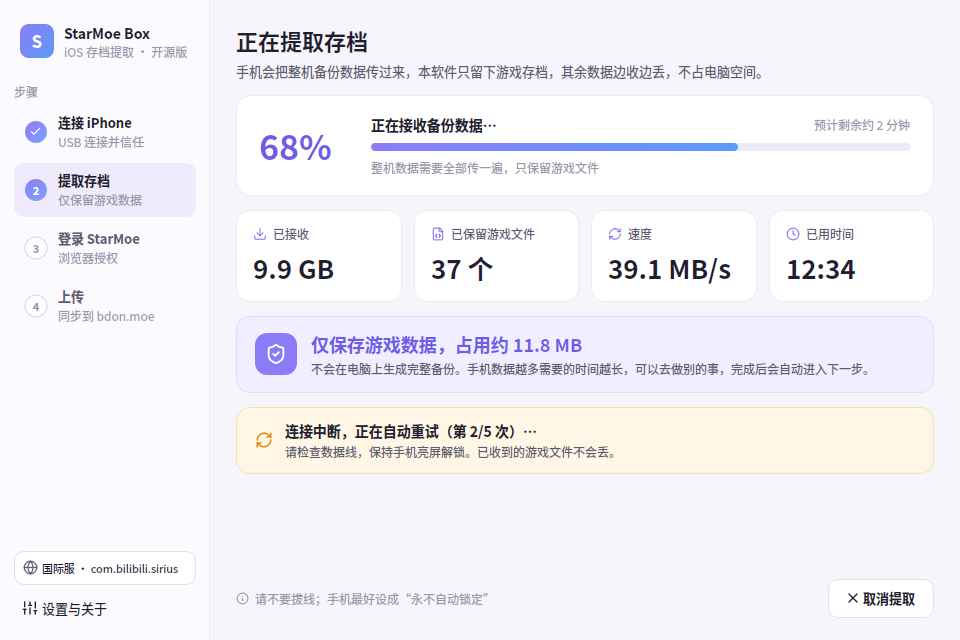
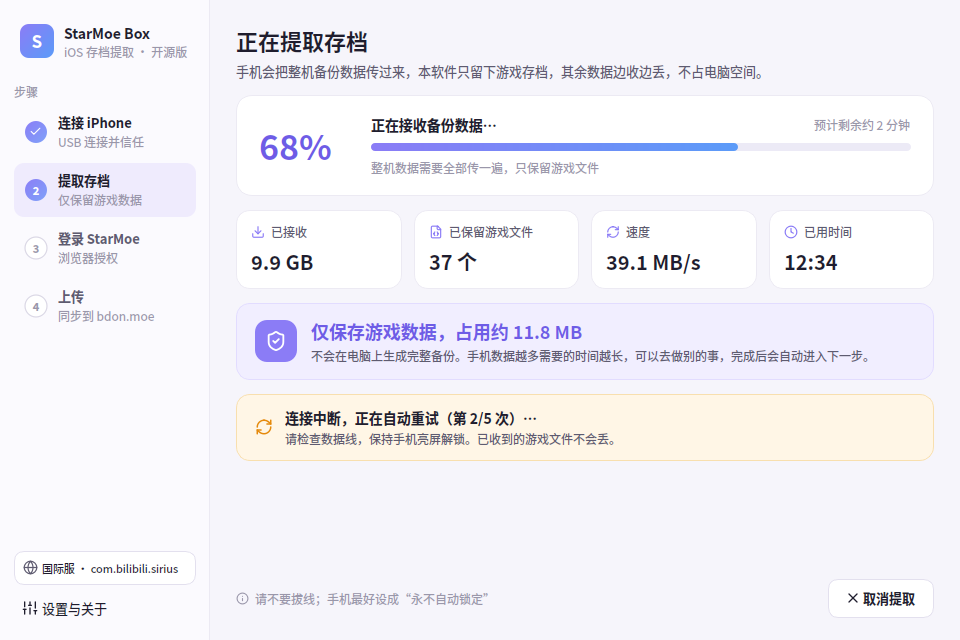
Keep extraction running in the background and fit the speed card
App Nap was throttling the backup once the window was covered, and the GUI thread was walking the backup folder on each refresh. Disable App Nap in Info.plist, hold an NSProcessInfo user-initiated activity (and SetThreadExecutionState on Windows) for the whole extract, and refresh the page at most 10 times a second from the worker thread.

The speed tile clipped 84.5 MB/s. Shrink the stat font to fit and give the four cards equal width.

diff --git a/starmoe_ios/power.py b/starmoe_ios/power.py
@@ -1,0 +1,102 @@
+"""提取期间禁止系统把进程挂起或让机器睡眠。失败时只记日志，不中断备份。"""
+import logging, sys
+
+log = logging.getLogger("starmoe.power")
+
+# NSActivityOptions（NSProcessInfo.h）
+NSActivityIdleSystemSleepDisabled = 1 << 20
+NSActivityUserInitiated = 0x00FFFFFF | NSActivityIdleSystemSleepDisabled
+
+# Windows SetThreadExecutionState
+_ES_CONTINUOUS = 0x80000000
+_ES_SYSTEM_REQUIRED = 0x00000001
+
+
+class StayAwake:
+    """with StayAwake(reason): 覆盖整个提取过程，结束时一定配对释放。"""
+
+    def __init__(self, reason="StarMoe Box is extracting an iPhone backup"):
+        self.reason = reason
+        self._token = None
+
+    def __enter__(self):
+        self._token = begin(self.reason)
+        return self
+
+    def __exit__(self, *exc):
+        end(self._token)
+        self._token = None
+        return False
+
+
+def begin(reason):
+    try:
+        if sys.platform == "darwin":
+            return _darwin_begin(reason)
+        if sys.platform == "win32":
+            return _win_begin()
+    except Exception as e:  # noqa: BLE001
+        log.warning("无法禁止系统休眠：%s", e)
+    return None
+
+
+def end(token):
+    try:
+        if sys.platform == "darwin":
+            _darwin_end(token)
+        elif sys.platform == "win32":
+            _win_end()
+    except Exception as e:  # noqa: BLE001
+        log.warning("无法恢复系统休眠：%s", e)
+
+
+def _darwin_begin(reason):
+    import ctypes
+    import ctypes.util
+    ctypes.cdll.LoadLibrary("/System/Library/Frameworks/Foundation.framework/Foundation")
+    objc = ctypes.cdll.LoadLibrary(ctypes.util.find_library("objc"))
+    objc.objc_getClass.restype = ctypes.c_void_p
+    objc.objc_getClass.argtypes = [ctypes.c_char_p]
+    objc.sel_registerName.restype = ctypes.c_void_p
+    objc.sel_registerName.argtypes = [ctypes.c_char_p]
+
+    def sel(name):
+        return objc.sel_registerName(name.encode())
+
+    send = ctypes.CFUNCTYPE(ctypes.c_void_p, ctypes.c_void_p, ctypes.c_void_p)(objc.objc_msgSend)
+    info = send(objc.objc_getClass(b"NSProcessInfo"), sel("processInfo"))
+    reason_s = ctypes.CFUNCTYPE(ctypes.c_void_p, ctypes.c_void_p, ctypes.c_void_p, ctypes.c_char_p)(
+        objc.objc_msgSend)(objc.objc_getClass(b"NSString"), sel("stringWithUTF8String:"), reason.encode())
+    begin_act = ctypes.CFUNCTYPE(ctypes.c_void_p, ctypes.c_void_p, ctypes.c_void_p, ctypes.c_uint64, ctypes.c_void_p)(
+        objc.objc_msgSend)
+    token = begin_act(info, sel("beginActivityWithOptions:reason:"),
+                      ctypes.c_uint64(NSActivityUserInitiated | NSActivityIdleSystemSleepDisabled), reason_s)
+    if token:
+        token = send(token, sel("retain"))
+    return (info, token)
+
+
+def _darwin_end(token):
+    if not token:
+        return
+    import ctypes
+    import ctypes.util
+    objc = ctypes.cdll.LoadLibrary(ctypes.util.find_library("objc"))
+    objc.sel_registerName.restype = ctypes.c_void_p
+    objc.sel_registerName.argtypes = [ctypes.c_char_p]
+    info, activity = token
+    end_act = ctypes.CFUNCTYPE(None, ctypes.c_void_p, ctypes.c_void_p, ctypes.c_void_p)(objc.objc_msgSend)
+    end_act(info, objc.sel_registerName(b"endActivity:"), activity)
+    release = ctypes.CFUNCTYPE(None, ctypes.c_void_p, ctypes.c_void_p)(objc.objc_msgSend)
+    release(activity, objc.sel_registerName(b"release"))
+
+
+def _win_begin():
+    import ctypes
+    ctypes.windll.kernel32.SetThreadExecutionState(_ES_CONTINUOUS | _ES_SYSTEM_REQUIRED)
+    return True
+
+
+def _win_end():
+    import ctypes
+    ctypes.windll.kernel32.SetThreadExecutionState(_ES_CONTINUOUS)

diff --git a/starmoe_ios/gui/workers.py b/starmoe_ios/gui/workers.py
@@ -3,6 +3,7 @@ import asyncio, logging, os, shutil, time, traceback
 from PySide6.QtCore import QThread, Signal
 from .. import core, device
 from ..errors import StarMoeError, ERR_DISCONNECTED, ERR_NO_DEVICE, ERR_NOT_TRUSTED, ERR_NETWORK
+from ..power import StayAwake
 
 log = logging.getLogger("starmoe.gui")
 # 快照阶段没有字节也不当断线；超过这个时间仍是 0 字节，才按断线重试
@@ -44,6 +45,7 @@ class BackupWorker(QThread):
     信号：status(str) 文字状态；retrying(n, max)；scanning()；found(list)；failed(code, msg, detail)；cancelled()
     """
     status = Signal(str)
+    tick = Signal()          # 最多约 10 次/秒，只通知界面去读 stats
     retrying = Signal(int, int)
     scanning = Signal()
     found = Signal(object)
@@ -73,7 +75,8 @@ class BackupWorker(QThread):
     def _once(self):
         async def main():
             self._task = asyncio.current_task()
-            return await self.runner(self.bundle, self.out_dir, self.stats, on_log=lambda m: log.info(m))
+            return await self.runner(self.bundle, self.out_dir, self.stats, on_log=lambda m: log.info(m),
+                                     on_tick=self.tick.emit)
         self._loop = asyncio.new_event_loop()
         try:
             return self._loop.run_until_complete(main())
@@ -92,11 +95,18 @@ class BackupWorker(QThread):
             return None
 
     def _wait_device(self):
+        def nap(seconds):
+            end_at = time.time() + seconds
+            while time.time() < end_at:
+                if self._cancel:
+                    return
+                self.tick.emit()
+                time.sleep(0.1)
+
         t0 = time.time()
-        for _ in range(20):   # 先等 2 秒，让 usbmuxd 注意到断开
-            if self._cancel:
-                return False
-            time.sleep(0.1)
+        nap(2)   # 先等 2 秒，让 usbmuxd 注意到断开
+        if self._cancel:
+            return False
         while not self._cancel and time.time() - t0 < self.wait_device_s:
             try:
                 if asyncio.run(device.list_serials()):
@@ -105,10 +115,14 @@ class BackupWorker(QThread):
                 pass
             except Exception:
                 pass
-            time.sleep(3)
+            nap(3)
         return False
 
     def run(self):
+        with StayAwake("StarMoe Box is extracting an iPhone backup"):
+            self._run()
+
+    def _run(self):
         # 只在第一次尝试前清理旧数据；重试时保留已收到的游戏文件
         shutil.rmtree(self.out_dir, ignore_errors=True)
         os.makedirs(self.out_dir, exist_ok=True)

diff --git a/starmoe_ios/device.py b/starmoe_ios/device.py
@@ -142,13 +142,25 @@ class BackupStats:
         self.kept = 0          # 保留（写盘）的游戏文件数
         self.dropped = 0
         self.percent = 0.0     # 手机报告的进度
+        self.kept_bytes = 0
         self.started = time.time()
         self.phase = "connecting"   # connecting / preparing / transferring / finishing
         self.will_encrypt = None
         self.udid_dir = None
 
 
-async def run_filtered_backup(bundle, out_dir, stats=None, fake_free=8 << 40, full=True, on_log=None):
+def _folder_bytes(path):
+    total = 0
+    for root, _, files in os.walk(path):
+        for name in files:
+            try:
+                total += os.path.getsize(os.path.join(root, name))
+            except OSError:
+                pass
+    return total
+
+
+async def run_filtered_backup(bundle, out_dir, stats=None, fake_free=8 << 40, full=True, on_log=None, on_tick=None):
     """执行一次过滤备份。返回 (udid_dir, will_encrypt)。异常：StarMoeError 或原始连接异常（见 is_disconnect）。"""
     from pymobiledevice3.services.mobilebackup2 import Mobilebackup2Service
     from pymobiledevice3.services import device_link as dlmod
@@ -204,8 +216,21 @@ async def run_filtered_backup(bundle, out_dir, stats=None, fake_free=8 << 40, fu
         except (TypeError, ValueError):
             pass
 
+    async def pulse():
+        """界面刷新最多 10 次/秒。目录大小在这条备份线程里算，不占用 GUI。"""
+        last_walk = 0.0
+        while True:
+            await asyncio.sleep(0.1)
+            now = time.monotonic()
+            if stats.udid_dir and now - last_walk >= 2.0:
+                last_walk = now
+                stats.kept_bytes = _folder_bytes(stats.udid_dir)
+            if on_tick:
+                on_tick()
+
     dlmod.DeviceLink.get_free_disk_space = fake_free_space
     dlmod.DeviceLink._recvall = counting_recv
+    pulse_task = asyncio.ensure_future(pulse())
     try:
         async with Mobilebackup2Service(ld) as mb:
             stats.will_encrypt = enc = await mb.get_will_encrypt()
@@ -222,6 +247,11 @@ async def run_filtered_backup(bundle, out_dir, stats=None, fake_free=8 << 40, fu
                 else:
                     raise StarMoeError(ERR_BACKUP_DENIED, "iPhone 拒绝了备份请求。", repr(e))
     finally:
+        pulse_task.cancel()
+        try:
+            await pulse_task
+        except asyncio.CancelledError:
+            pass
         dlmod.DeviceLink.get_free_disk_space = orig_free
         dlmod.DeviceLink._recvall = orig_recv
         try:

diff --git a/starmoe_ios/gui/widgets.py b/starmoe_ios/gui/widgets.py
@@ -316,14 +316,45 @@ class Stepper(QWidget):
 
 
 class StatTile(Card):
+    """四张等宽统计卡。数值从 20px 往下缩，仍放不下才省略，避免「84.5 MB/s」被裁成「84.5 MB/」。"""
+
     def __init__(self, icon_name, title, value="—"):
-        super().__init__("tile", (16, 14, 16, 14), 6)
+        super().__init__("tile", (14, 12, 14, 12), 6)
+        self.setMinimumWidth(0)
+        self.setSizePolicy(QSizePolicy.Ignored, QSizePolicy.Preferred)
         self.lay.addWidget(hbox(icon_label(icon_name, T.PURPLE, 14), label(title, "small"), None, spacing=6))
-        self.v = label(value, "big")
+        self.v = label(value, "stat")
+        self.v.setMinimumWidth(0)
+        self.v.setSizePolicy(QSizePolicy.Ignored, QSizePolicy.Preferred)
         self.lay.addWidget(self.v)
+        self._full = str(value)
 
     def set(self, v):
-        self.v.setText(str(v))
+        self._full = str(v)
+        self._fit()
+
+    def resizeEvent(self, event):
+        super().resizeEvent(event)
+        self._fit()
+
+    def _fit(self):
+        from PySide6.QtGui import QFontMetrics
+        text = self._full
+        avail = self.v.width()
+        if avail < 8:
+            avail = max(8, self.width() - 28)
+        size = 20
+        shown = text
+        while size >= 14:
+            self.v.setStyleSheet(f"font-size: {size}px; font-weight: 700; color: {T.TEXT};")
+            width = QFontMetrics(self.v.font()).horizontalAdvance(text)
+            if width <= avail:
+                self.v.setText(text)
+                return
+            size -= 1
+        self.v.setStyleSheet(f"font-size: 14px; font-weight: 700; color: {T.TEXT};")
+        shown = QFontMetrics(self.v.font()).elidedText(text, Qt.ElideRight, avail)
+        self.v.setText(shown)
 
 
 class Option(Card):

diff --git a/starmoe_ios/gui/app.py b/starmoe_ios/gui/app.py
@@ -71,8 +71,6 @@ class MainWindow(QMainWindow):
 
         self.poll = QTimer(self)
         self.poll.timeout.connect(self.poll_device)
-        self.ui_timer = QTimer(self)
-        self.ui_timer.timeout.connect(self.refresh_extract)
 
         self.set_server(self.server)
         self.load_saved_keys()
@@ -393,23 +391,19 @@ class MainWindow(QMainWindow):
         w.found.connect(lambda s: self.on_found(s, "USB 过滤备份", str(w.stats.udid_dir)))
         w.failed.connect(self.on_backup_failed)
         w.cancelled.connect(lambda: self.go(self.D))
-        w.finished.connect(self.ui_timer.stop)
+        w.tick.connect(self.refresh_extract)
+        w.finished.connect(self.refresh_extract)
         self.backup_password = pw
         self.p[self.X].reset()
         self.go(self.X)
         w.start()
-        self.ui_timer.start(500)
-        self._kept_bytes_at = 0
 
     def refresh_extract(self):
         w = self.worker
         if not w:
             return
         s = w.stats
-        if time.time() - self._kept_bytes_at > 2 and s.udid_dir and os.path.isdir(s.udid_dir):
-            self._kept_bytes_at = time.time()
-            w.kept_bytes = sum(os.path.getsize(os.path.join(r, f)) for r, _, fs in os.walk(s.udid_dir) for f in fs)
-        self.p[self.X].update_stats(s.percent, s.received, s.kept, w.kept_bytes, time.time() - s.started, s.phase)
+        self.p[self.X].update_stats(s.percent, s.received, s.kept, s.kept_bytes, time.time() - s.started, s.phase)
 
     def cancel_backup(self):
         if self.busy() and QMessageBox.question(

diff --git a/tests/test_gui.py b/tests/test_gui.py
@@ -347,4 +347,37 @@ assert picked == ["intl"] and seg.value() == "intl"
 seg.set_value("intl")
 assert picked == ["intl"]
 print("SERVER SEGMENT OK")
+
+# 14) 速度卡片在默认内容宽度里放下「84.5 MB/s」，四张卡等宽
+from PySide6.QtWidgets import QWidget, QHBoxLayout
+from starmoe_ios.gui.widgets import StatTile
+box = QWidget()
+box.resize(698, 100)   # 960 窗口减去 210 侧栏和页边距
+row = QHBoxLayout(box)
+row.setContentsMargins(0, 0, 0, 0)
+row.setSpacing(12)
+cards = [StatTile("download", "已接收", "17.7 GB"), StatTile("json", "已保留游戏文件", "12 个"),
+         StatTile("refresh", "速度", "84.5 MB/s"), StatTile("clock", "已用时间", "10:48")]
+for c in cards:
+    row.addWidget(c, 1)
+box.show()
+spin()
+assert "MB/s" in cards[2].v.text(), cards[2].v.text()
+widths = [c.width() for c in cards]
+assert max(widths) - min(widths) <= 4, widths
+print("STAT TILE OK", cards[2].v.text(), widths)
+
+# 15) 防休眠调用成对出现
+import starmoe_ios.power as power
+marks = []
+real_begin, real_end = power.begin, power.end
+power.begin = lambda reason: marks.append(reason) or "tok"
+power.end = lambda token: marks.append(token)
+try:
+    with power.StayAwake("extracting"):
+        pass
+finally:
+    power.begin, power.end = real_begin, real_end
+assert marks == ["extracting", "tok"], marks
+print("STAY AWAKE OK")
 print("GUI TESTS OK")

diff --git a/starmoe_ios/gui/theme.py b/starmoe_ios/gui/theme.py
@@ -54,6 +54,7 @@ QLabel[role="muted"] {{ color: {MUTED}; font-size: 12px; }}
 QLabel[role="small"] {{ color: {TEXT2}; font-size: 12px; }}
 QLabel[role="cardtitle"] {{ font-size: 14px; font-weight: 600; }}
 QLabel[role="big"] {{ font-size: 26px; font-weight: 700; }}
+QLabel[role="stat"] {{ font-size: 20px; font-weight: 700; }}
 QLabel[role="huge"] {{ font-size: 34px; font-weight: 700; color: {PURPLE_DARK}; }}
 QLabel[role="value"] {{ font-size: 14px; font-weight: 600; }}
 QLabel[chip="green"] {{ background: {GREEN_BG}; color: {GREEN}; border-radius: 10px; padding: 2px 9px; font-size: 12px; }}

diff --git a/starmoe_ios/gui/pages.py b/starmoe_ios/gui/pages.py
@@ -462,7 +462,7 @@ class ExtractPage(Page):
         self.t_speed = StatTile("refresh", "速度", "—")
         self.t_time = StatTile("clock", "已用时间", "00:00")
         for t in (self.t_recv, self.t_kept, self.t_speed, self.t_time):
-            tiles.addWidget(t)
+            tiles.addWidget(t, 1)
         self.body.addLayout(tiles)
         ban = Card("purple", (18, 14, 18, 14), 14, horizontal=True)
         ban.lay.addWidget(IconBadge("shield", "#FFFFFF", T.PURPLE, 42, 22, 12))
